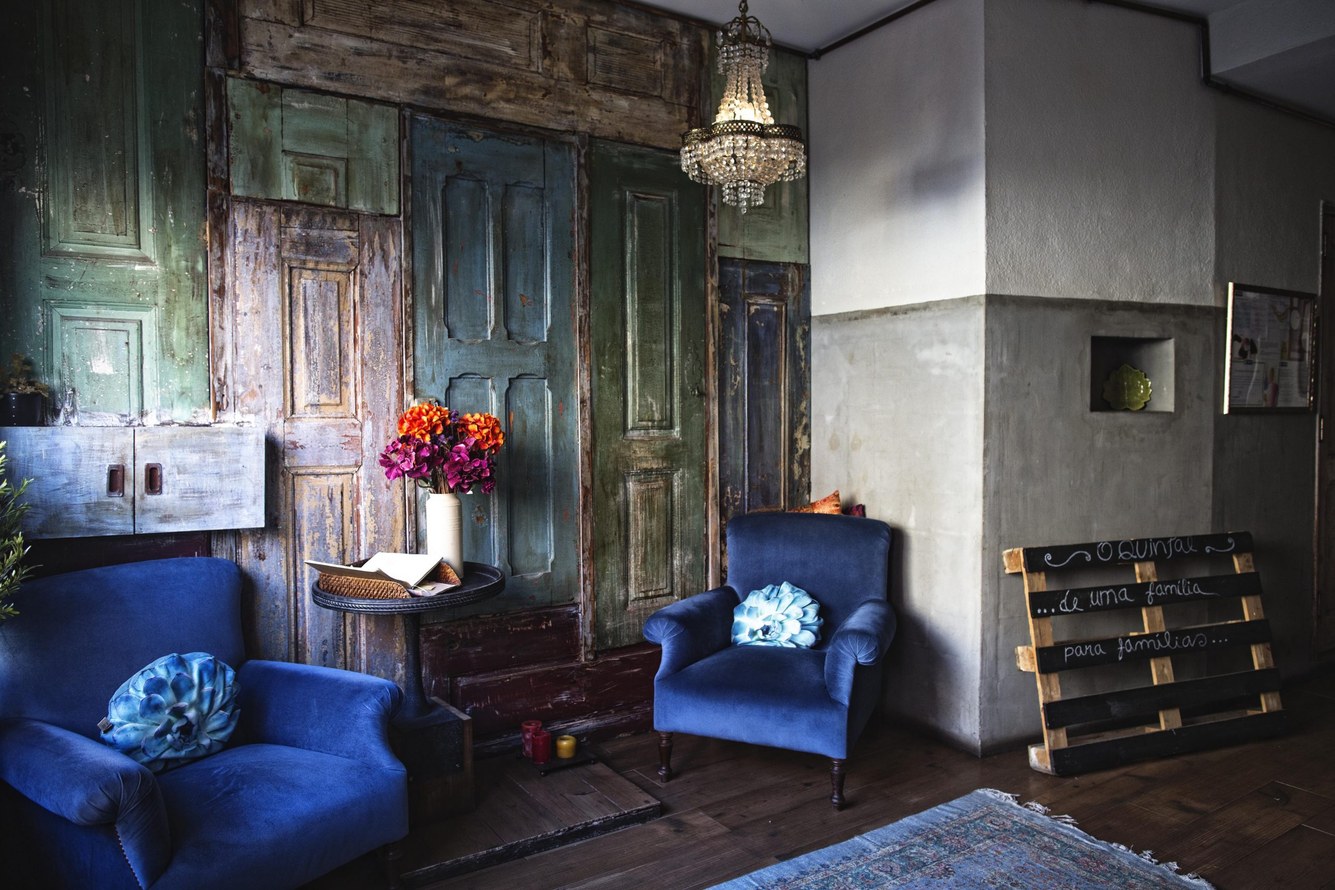
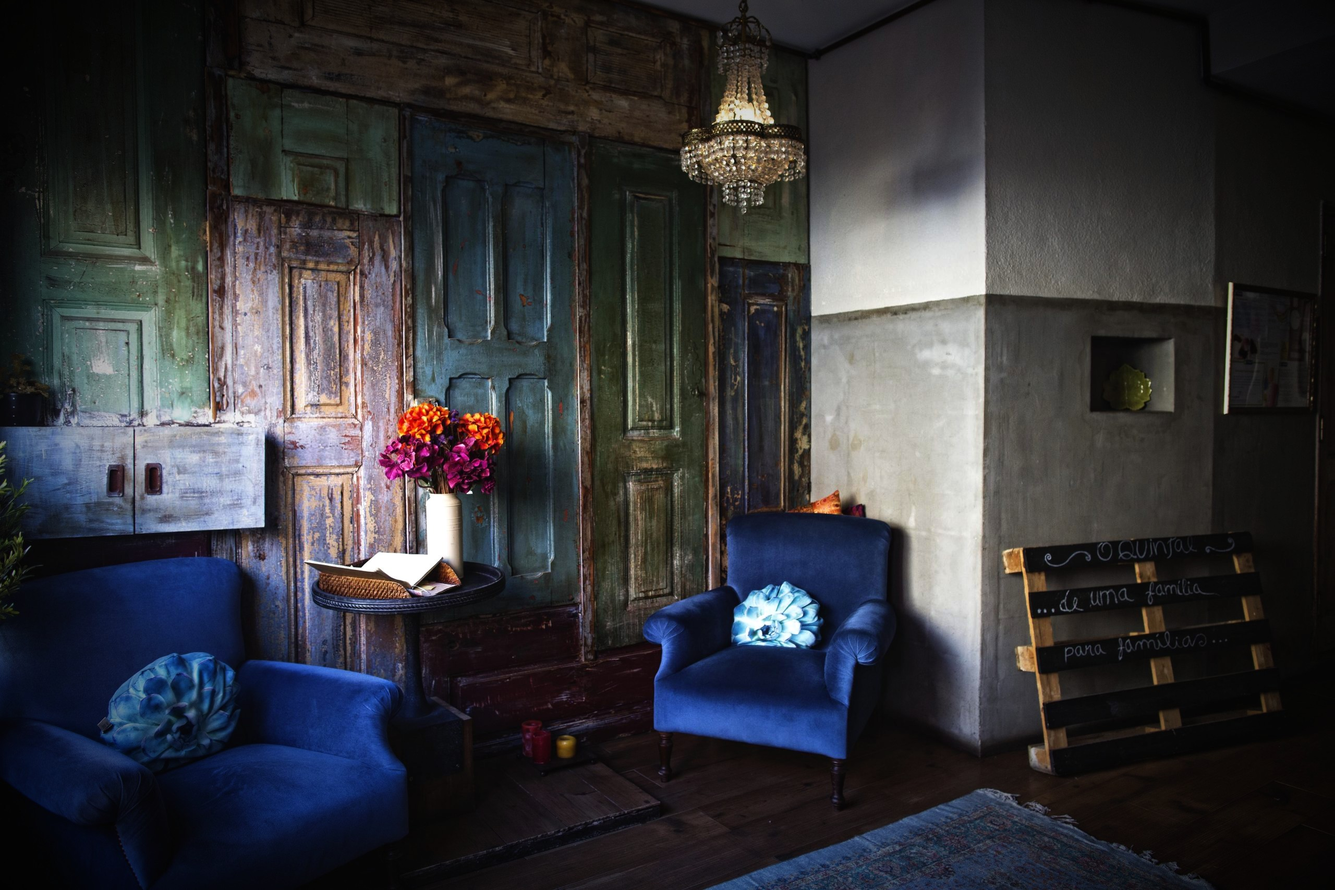
Upload further images and set some styling

diff --git a/index.html b/index.html
@@ -16,33 +16,49 @@
 
 <body>
     <main>
-        <header>
-            <figure>
-                <img src="src/img/oquintal-small-logo.png" alt="">
-            </figure>
-            <nav>
-                <ul>
-                    <li>Menu</li>
-                    <li>Reservas</li>
-                    <li>Contactos</li>
-                </ul>
-            </nav>
-        </header>
         <section>
-            <article>
-                <h1>O Quintal</h1>
-                <h3>O Quintal é um restaurante situado na Amadora onde se privilegia a partilha e o estar à mesa com
-                    quem
-                    mais
-                    gostamos. Desfrute dos nossos pratos do dia</h3>
-            </article>
+            <header class="header">
+                <figure>
+                    <img src="src/img/oquintal-small-logo.png" alt="">
+                </figure>
+                <nav>
+                    <a class="menu" href="">O Menu</a>
+                    <a href="">A Reserva</a>
+                    <a href="">Os Contactos</a>
+                </nav>
+            </header>
+            <section>
+                <article>
+                    <h1>O Quintal</h1>
+                    <h3>O Quintal é um restaurante situado na Amadora onde se privilegia a partilha e o estar à mesa
+                        com
+                        quem
+                        mais
+                        gostamos.</h3>
+                    <h3>Desfrute dos nossos pratos do dia</h3>
+                </article>
+            </section>
         </section>
     </main>
+    <figure>
+        <img src="src/img/oquintal-menu.jpg" alt="">
+    </figure>
+    <figure>
+        <img src="src/img/oquintal-bebidas.jpg" alt="">
+    </figure>
+    </aside>
     <footer>
         <figure>
             <img src="src/img/p2020.jpg" alt="">
         </figure>
     </footer>
+
+    <script>
+        document.querySelector(".menu").addEventListener("click", () => {
+            document.getElementById("menu").classList = "active"
+        }
+        );
+    </script>
 </body>
 
 </html>

diff --git a/style.css b/style.css
@@ -7,23 +7,58 @@
 }
 
 :root {
-  --dark: #282929;
-  --text: #ddd;
+  --dark: #141111;
+  --text: #f1f1f1;
 }
 
 body {
   font-family: "Red Hat Display", sans-serif;
   background-color: var(--dark);
-  text-shadow: var(--dark);
   color: var(--text);
 }
 
 main {
-  height: 100vh;
-  background: scroll center url("src/img/oquintal.jpg");
+  background: fixed center url("src/img/oquintal.jpg");
   background-size: cover;
-  filter: brightness(70%);
+  height: 100vh;
+}
+
+main > section > header {
+  display: flex;
+  align-items: center;
+  padding: 2rem 7rem;
+  justify-content: space-between;
+}
+
+.header > nav {
+  gap: 1rem;
+  display: flex;
+}
+
+.header > nav > a {
+  font-size: 1.2rem;
+  color: var(--text)
+  text-decoration: none;
+  
+}
+
+section > article > h1 {
+  font-size: 2rem;
 }
 
 section > article {
+  text-shadow: .1rem .1rem  .1rem var(--dark);
+  display: flex;
+  align-items: center;
+  flex-direction: column;
+  justify-content: center;
+  padding: 5rem;
+  margin: 0 7rem;
+  gap: 2rem;
+  backdrop-filter: blur(.5rem);
+}
+
+
+aside > figure > img {
+  width: 40%;
 }
